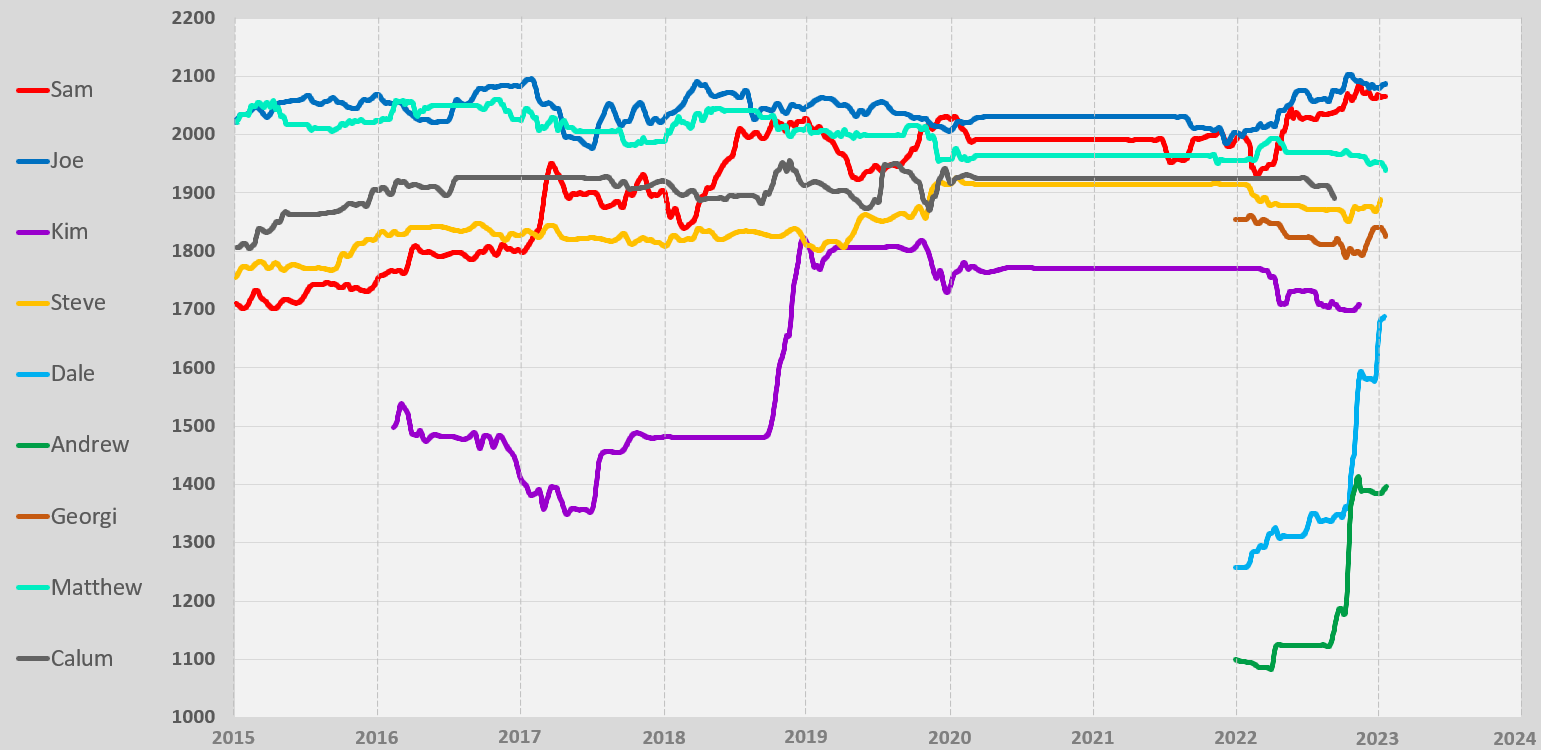
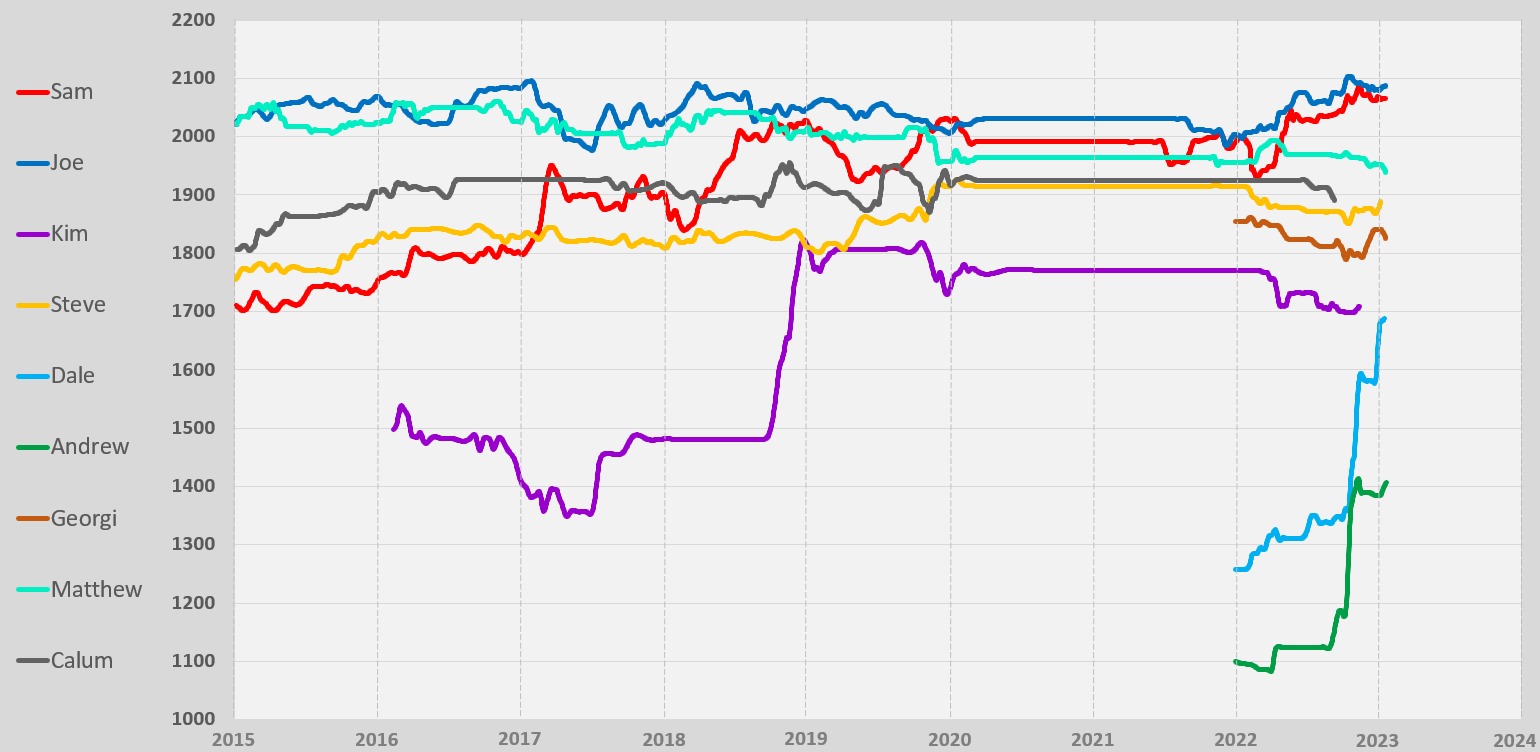
51

diff --git a/Andrew_Davies.html b/Andrew_Davies.html
@@ -36,7 +36,8 @@
           ['', null,1412,null],
           ['', null,1389,null],
           ['', null,1385,null],
-          ['', null,1397,1397]
+          ['', null,1393,1393],
+          ['', null,null,1406]
 
 
 
@@ -118,8 +119,9 @@
           <th>Date</th><th>Event</th><th>Name</th><th>Result</th><th>Opponent Rating</th><th>New Rating</th>
           </tr>
     
-          <tr><td>17/01/2023</td><td>League</td><td>Paul Headon</td><td>0.5</td><td>1734</td><td>1397</td></tr>
- 
+          <tr><td>12/01/2023</td><td>League</td><td>Gary Harber</td><td>1</td><td>1203</td><td>1393</td></tr>
+          <tr><td>17/01/2023</td><td>League</td><td>Paul Headon</td><td>0.5</td><td>1734</td><td>1405</td></tr>
+           
           </table> 
     </body>
 
